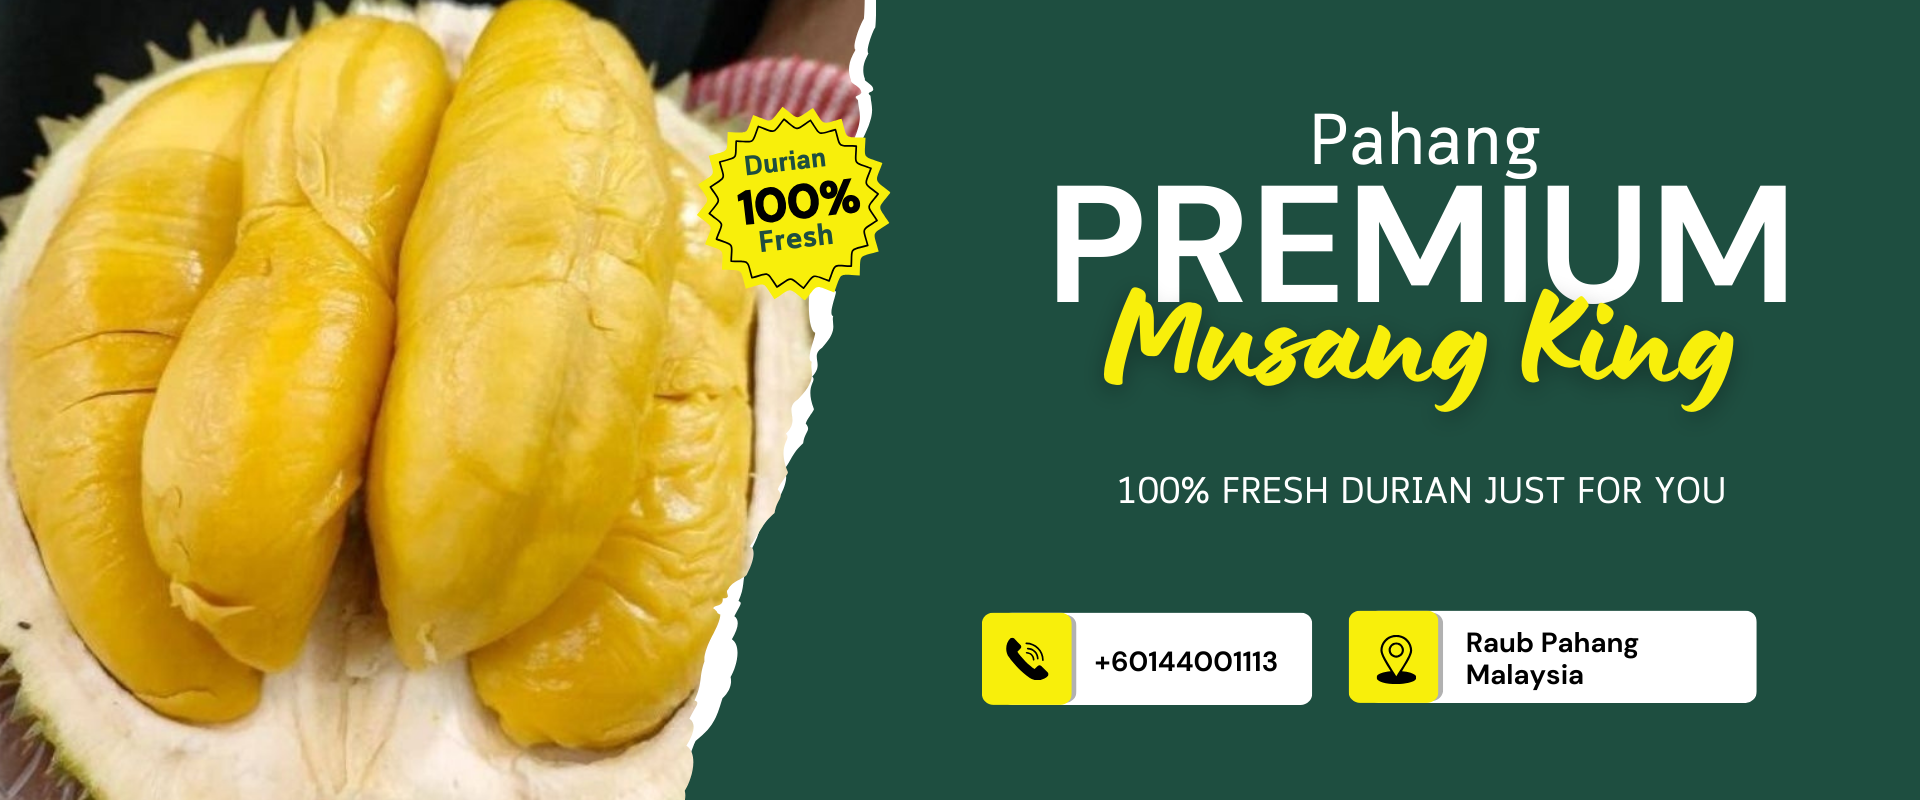
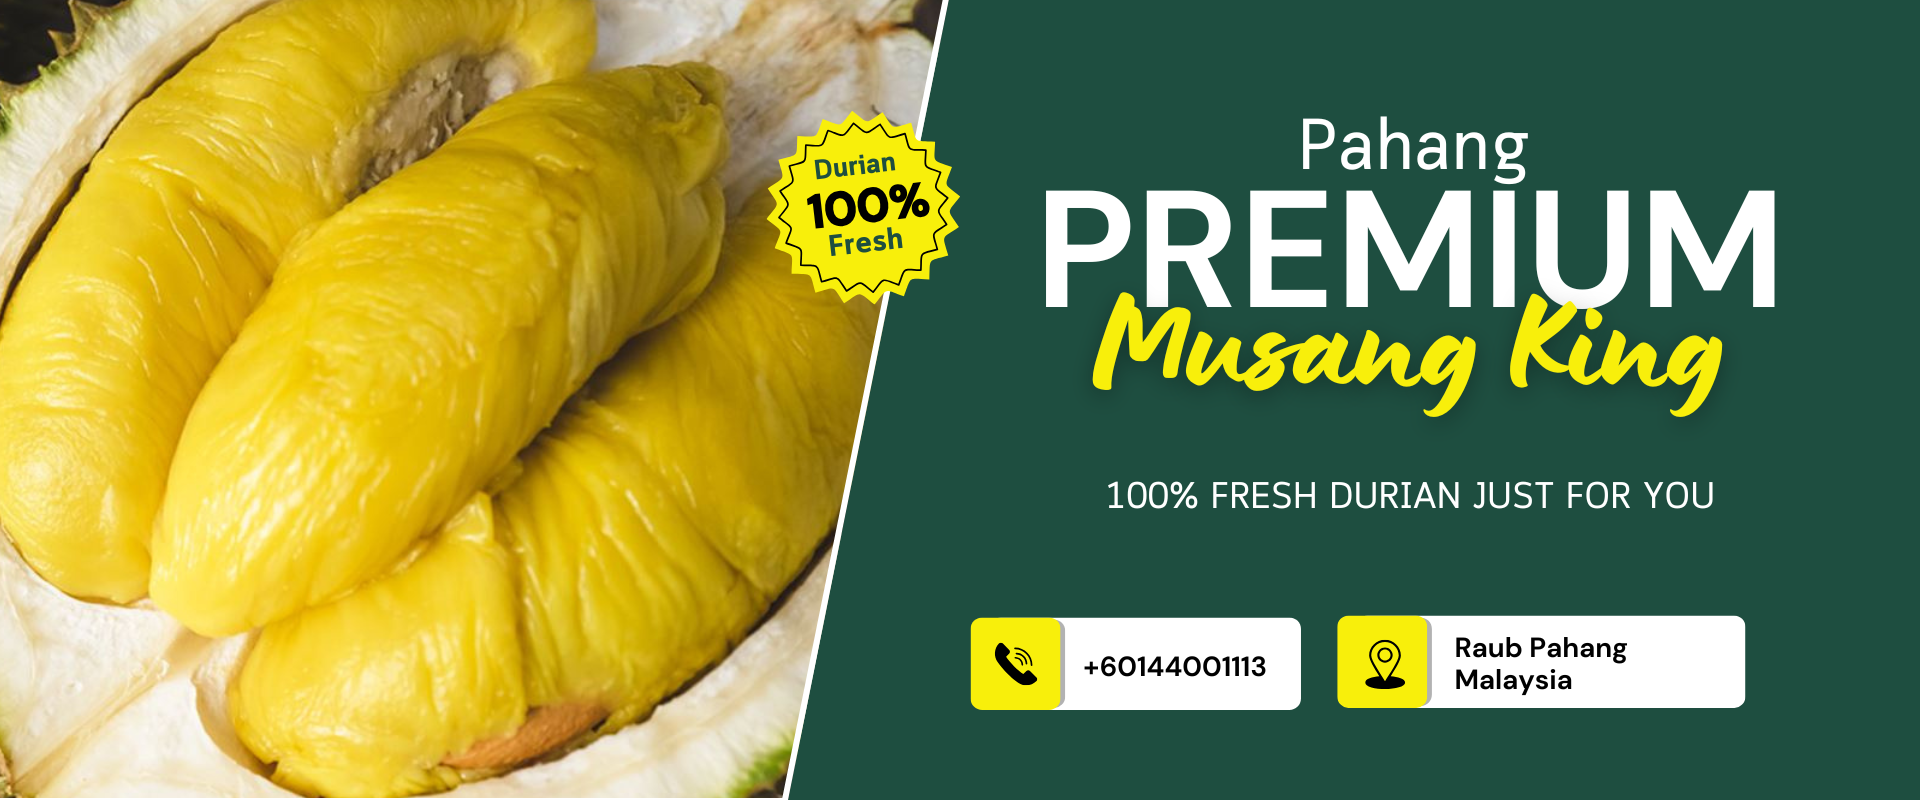
cm

diff --git a/index_en.html b/index_en.html
@@ -47,7 +47,7 @@
             <img src="./images/Green Bold Simple Food Promotion Landscape Banner (1920 x 800 px).png" class="d-block w-100" alt="...">
           </div>
           <div class="carousel-item">
-            <img src="./images/Red Modern Today Special Food Menu Banner (1920 x 800 px).png" class="d-block w-100" alt="...">
+            <img src="./images/Green White and Yellow Modern Fresh Produce Market Sale Banner Landscape (1920 x 800 px).png" class="d-block w-100" alt="...">
           </div>
           <div class="carousel-item">
             <img src="./images/Web-banner_1920x800_03.jpg" class="d-block w-100" alt="...">
@@ -88,7 +88,7 @@
     </section>
 
     <!-- delight -->
-    <!-- <section id="delight">
+    <section id="delight">
       <div class="container-fluid ">
         <h3 class="text-center"><span>About Durian</span></h3>
         <div class="row">
@@ -106,7 +106,7 @@
           </div>
         </div>
       </div>
-    </section> -->
+    </section>
     <!-- product image -->
     <section id="product">
       <div class="container-fluid ">

diff --git a/index.html b/index.html
@@ -88,7 +88,7 @@
     </section>
 
     <!-- delight -->
-    <!-- <section id="delight">
+    <section id="delight">
       <div class="container-fluid ">
         <h3 class="text-center"><span>“榴莲” 忘返的美味</span></h3>
         <div class="row">
@@ -106,7 +106,7 @@
           </div>
         </div>
       </div>
-    </section> -->
+    </section>
     <!-- product image -->
     <section id="product">
       <div class="container-fluid ">

diff --git a/style.css b/style.css
@@ -186,7 +186,7 @@ button{
   margin-bottom: 60px;
 }
 #company{
-  background: url("./images/MC-company-background.jpg");
+  background: url("./images/yeallow-background-MC.jpg");
   min-height: 500px;
   background-attachment: fixed;
   background-position: center;
